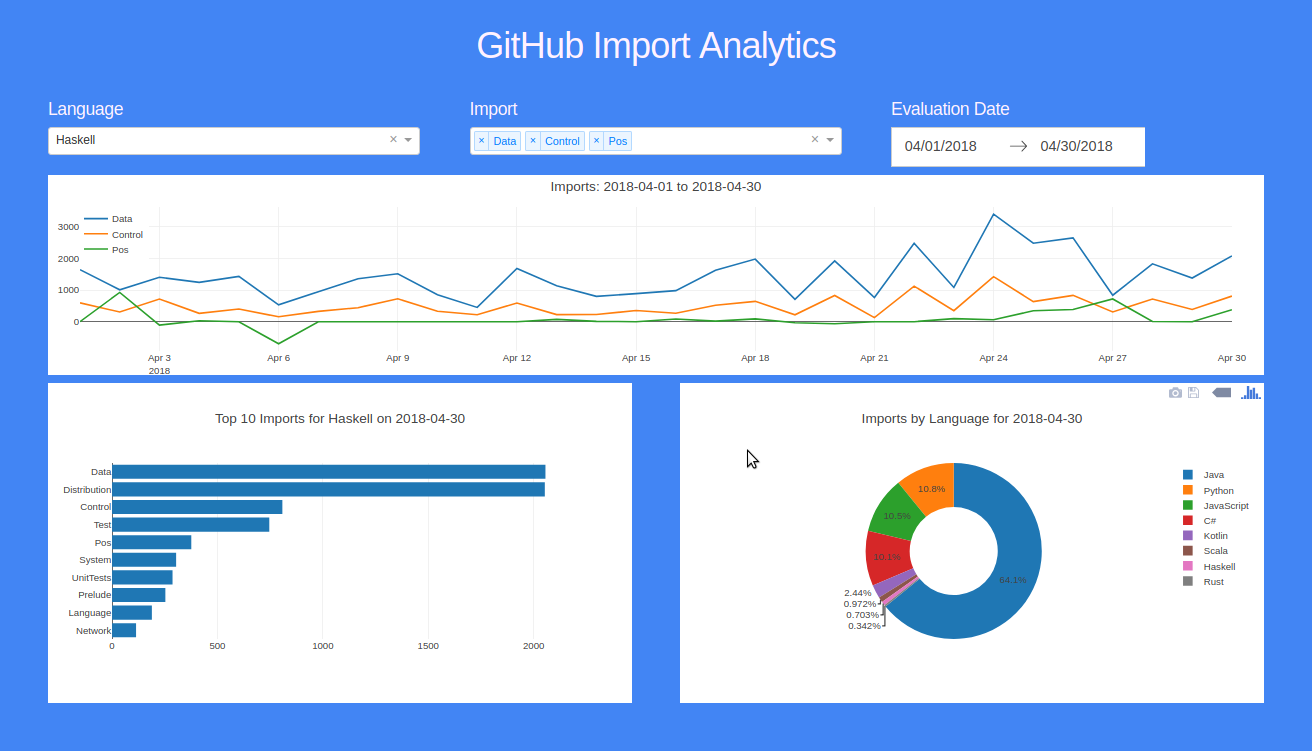
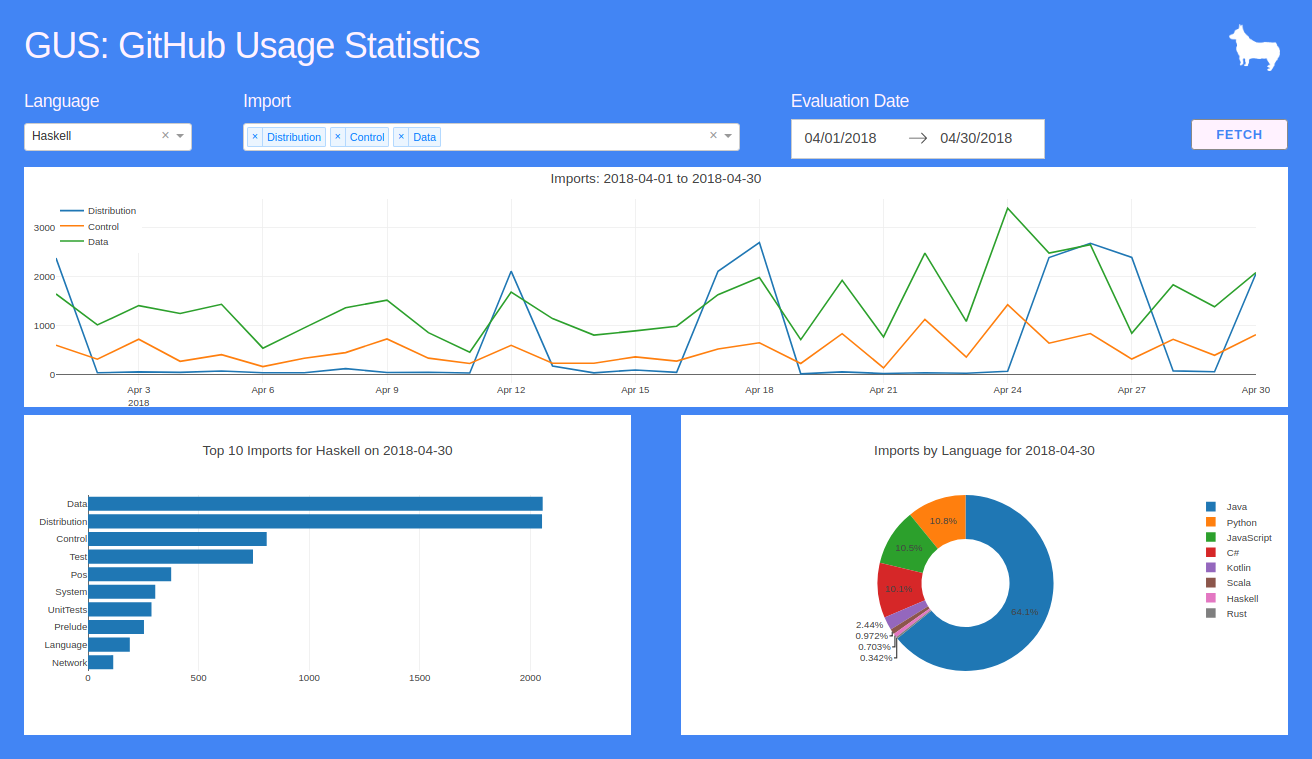
new languages and memory only serialization

diff --git a/src/main/python/front_end/main/app.py b/src/main/python/front_end/main/app.py
@@ -24,13 +24,16 @@ colors = {
 
 LANGUAGES = [
     "C#",
+    "F#",
     "Haskell",
     "Java",
     "JavaScript",
     "Kotlin",
     "Python",
     "Rust",
-    "Scala"
+    "Scala",
+    "Swift",
+    "TypeScript"
 ]
 
 # Define the components
@@ -52,16 +55,14 @@ app.layout = html.Div(
     className = 'ten columns offset-by-one',
     children = [
         html.Div(
-            style = {'margin-left': '60', 'margin-right': '60', 'margin-bottom': '60', 'margin-top': '30'},
+            style = {'margin-left': '30', 'margin-right': '30', 'margin-bottom': '30', 'margin-top': '30'},
             children = [
                 html.Div([
-                    html.Div([html.H1("GitHub Import Analytics", style={"textAlign": "center"})],
-                        className = 'eight columns'
+                    html.Div([html.H1("GUS: GitHub Usage Statistics")],
+                        className = 'eleven columns'
                         ),
-                    html.Div([html.Img(src='https://raw.githubusercontent.com/ericapinkham/Insight_DE_GUS/master/src/main/resources/GUS_logo.png',
-                        style = {'size': '10'}
-                        )],
-                        className = 'four columns'
+                    html.Div([html.Img(src='https://raw.githubusercontent.com/ericapinkham/Insight_DE_GUS/master/src/main/resources/GUS_logo.png')],
+                        className = 'one columns'
                         )
                     ],
                     className = 'row'
@@ -70,18 +71,16 @@ app.layout = html.Div(
                 className = 'row',
                 children = [
                 html.Div([
-                        html.H5("Language", style = {'color': colors['white']}),
+                        html.H5("Language", style = {'color': colors['white'], 'height': '38'}),
                         language_dropdown
                         ],
-                    className='four columns',
-                    style={'margin-top': '10'}
+                    className='two columns'
                     ),
                 html.Div([
-                        html.H5("Import", style = {'color': colors['white']}),
+                        html.H5("Import", style = {'color': colors['white'], 'height': '38'}),
                         package_dropdown
                         ],
-                    className='four columns',
-                    style={'margin-top': '10'}
+                    className='five columns'
                     ),
                 html.Div([html.H5("Evaluation Date", style = {'color': colors['white']}),
                         dcc.DatePickerRange(
@@ -90,14 +89,25 @@ app.layout = html.Div(
                             end_date = date.today() - timedelta(1)
                         )
                         ],
-                    className='four columns',
-                    style={'margin-top': '10'}
+                    className='three columns'
                     ),
+                html.Div([
+                    html.Button('Fetch', id='fetch_button',
+                    style = {
+                        'color': colors['blue'],
+                        'backgroundColor': colors['white'],
+                        'height': '38',
+                        'marginTop': '45',
+                        'marginLeft': '90',
+                        'fontSize': '16'
+                        })],
+                    className='one columns'
+                    )
                 ]),
                 html.Div([
                     html.Div([
                         dcc.Graph(
-                            style={'height': 250},
+                            style={'height': 300},
                             id='imports_by_date_graph'
                             )],
                         className='twelve columns',
@@ -125,8 +135,9 @@ app.css.append_css({
 
 @app.callback(
     Output("language_share_pie", "figure"),
-    [Input("eval_date", "end_date")])
-def refresh_language_share_pie(date):
+    [Input('fetch_button', 'n_clicks')],
+    [State("eval_date", "end_date")])
+def refresh_language_share_pie(clicks, date):
     language_totals = dal.get_language_totals(date)
     figure = go.Figure(
         data = [go.Pie(
@@ -149,8 +160,8 @@ def language_dropdown(language):
 
 @app.callback(
     Output("import_summary_bar", "figure"),
-    [Input("language_dropdown", "value"), Input("eval_date", "end_date")])
-def refresh_import_summary_bar(language, end_date):
+    [Input('fetch_button', 'n_clicks')],[State("language_dropdown", "value"), State("eval_date", "end_date")])
+def refresh_import_summary_bar(clicks, language, end_date):
     package_data = dal.get_most_used_languages(language, end_date)
     return go.Figure(
             data = [go.Bar(
@@ -168,9 +179,10 @@ def refresh_import_summary_bar(language, end_date):
 
 @app.callback(
     Output("imports_by_date_graph", "figure"),
-    [Input("language_dropdown", "value"), Input("package_dropdown", "value"),
-    Input("eval_date", "start_date"), Input("eval_date", "end_date")])
-def refresh_imports_by_date_graph(language, packages, start_date, end_date):
+    [Input('fetch_button', 'n_clicks')],
+    [State("language_dropdown", "value"), State("package_dropdown", "value"),
+    State("eval_date", "start_date"), State("eval_date", "end_date")])
+def refresh_imports_by_date_graph(clicks, language, packages, start_date, end_date):
     if packages == None:
         return None
 

diff --git a/src/main/python/front_end/main/data_access_layer.py b/src/main/python/front_end/main/data_access_layer.py
@@ -13,18 +13,13 @@ def fetch(query):
 
 def get_most_used_languages(language, date):
     query = """
-        WITH import_summary AS (
-            SELECT  *,
-                    ROW_NUMBER() OVER (PARTITION BY language_name ORDER BY usage_count DESC) AS RowNumber
-                FROM commits
-                WHERE language_name = '{}'
-                    AND commit_date = '{}'
-            )
         SELECT  import_name,
                 usage_count
-            FROM import_summary
-            WHERE RowNumber <= 10
+            FROM daily_import_summary
+            WHERE language_name = '{}'
+                AND commit_date = '{}'
             ORDER BY usage_count DESC
+            LIMIT 10
         """.format(language, date)
     return fetch(query)
 
@@ -36,7 +31,7 @@ def get_language_totals(date):
             WHERE commit_date = '{}'
             """.format(date)
     return fetch(query)
-    
+
 def get_usage_by_import(language, packages, begin_date, end_date):
     pivots = ",".join(["""SUM(CASE WHEN import_name = '{0}' THEN usage_count ELSE 0 END) "{0}" """.format(package) for package in packages])
     in_clause = ",".join(["'{}'".format(package) for package in packages])

diff --git a/src/main/python/airflow/extract_github_commits.py b/src/main/python/airflow/extract_github_commits.py
@@ -100,7 +100,7 @@ cockroachdb_daily_import_summary = PostgresOperator(
     		import_name,
     		usage_count
     	FROM import_summary
-    	WHERE row_number <= 10
+    	WHERE row_number <= 5000
     ;""",
     dag = dag
 )
